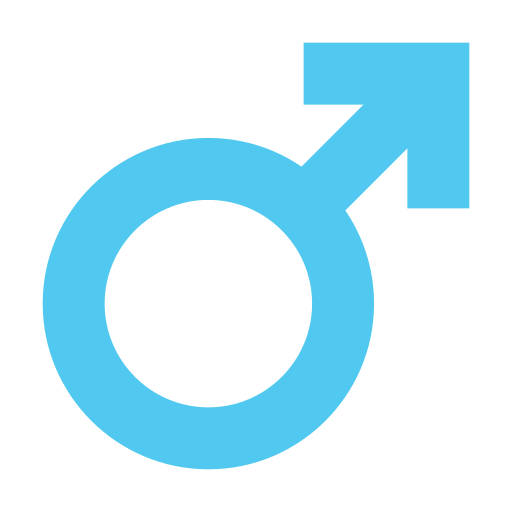
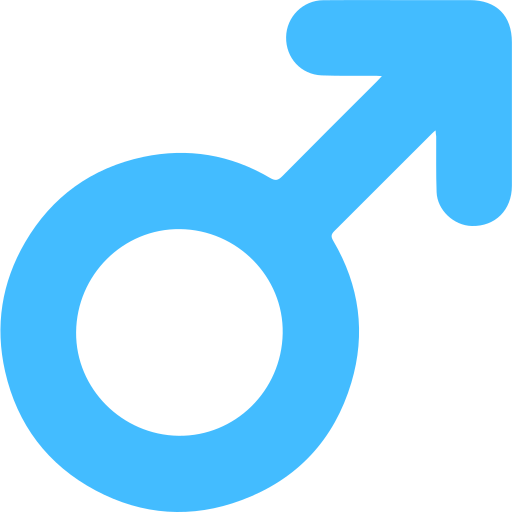
а

diff --git a/styles.css b/styles.css
@@ -49,8 +49,30 @@ input[type="file"],
     border-radius: 4px;
 }
 
-img {
-    width: 7%;
+.gender label {
+    display: inline-block;
+    margin-left: 90px;
+    border: 2px solid transparent;
+    border-radius: 10px;
+    overflow: visible;
+    transition: transform 0.3s, border-color 0.3s;
+    cursor: pointer;
+}
+
+.gender input[type="radio"] {
+    display: none;
+}
+
+.gender img {
+    width: 30px;
+    height: 30px;
+    transition: transform 0.3s;
+}
+
+.gender input[type="radio"]:checked + img {
+    transform: scale(1.5);
+    border-radius: 50%;
+    
 }
 
 .identityFile {
@@ -82,11 +104,6 @@ textarea,
 select {
     background: #2E2D3D;
     color: #AFB2BF;
-}
-
-.gender label {
-    display: inline-block;
-    margin-right: 10px;
 }
 
 .error-message {

diff --git a/index.html b/index.html
@@ -24,8 +24,8 @@
 
             <label>Пол</label>
             <div class="gender">
-                <label><input type="radio" name="gender" value="male" required><img src="img/gender.png" alt="мужской"></label>
-                <label><input type="radio" name="gender" value="female" required> Женский</label>
+                <label><input type="radio" name="gender" value="male" required><img src="img/male.png" alt="мужской"></label>
+                <label><input type="radio" name="gender" value="female" required><img src="img/female.png" alt="Женский"></label>
             </div>
 
             <label for="identityFile" class="identityFile">Подтверждение личности</label>
